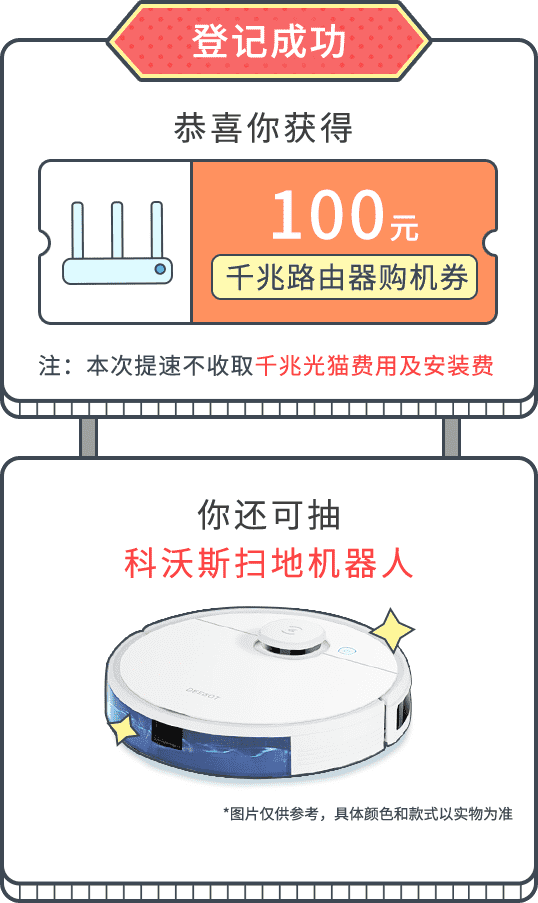
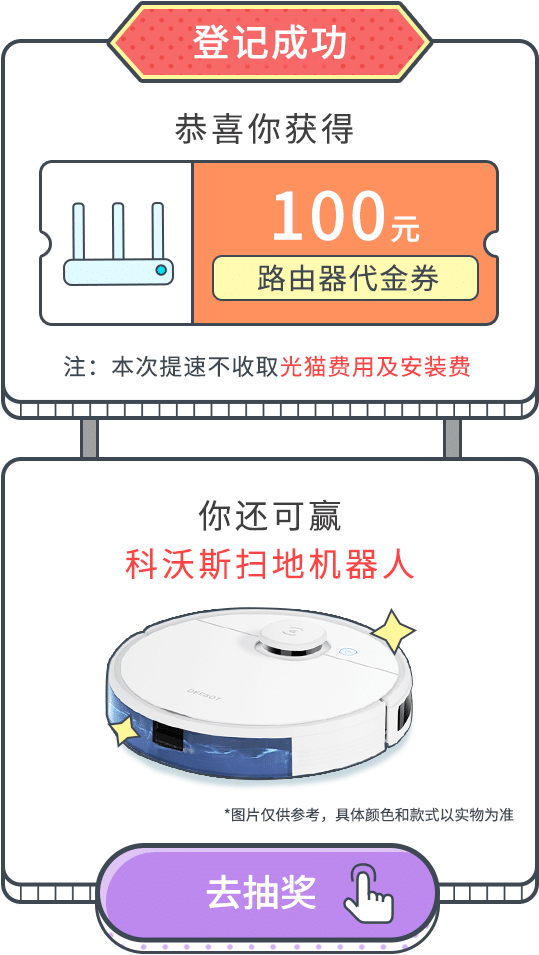
fix： bugv2.0

diff --git a/src/main.js b/src/main.js
@@ -91,8 +91,8 @@ function getUserInfo(flag = true) {
       if (res.data) {
         // 先判断是否是分享进来的
         user = res.data.data || { change: 1, prize_all_list: [], prize_list: [], help_list: [] }
-        if (user?.headimgurl) {
-          $(".head-image").css("background-image", `url(${user?.headimgurl})`)
+        if (user?.nickname) {
+          // $(".head-image").css("background-image", `url(${user?.headimgurl})`)
           $(".poster-name").text("@" + (user.nickname || "未知"))
         }
         console.log("getuser", share_openid, res.data.data);
@@ -124,10 +124,11 @@ function getUserInfo(flag = true) {
             verifyStatus = "success"
             $(".icon-phone").text("联系号码：" + user?.tel)
             $(".icon-addr").text("联系地址：" + user.address + user.address_more)
-            if(user?.tvid) {
+            if (user?.tvid) {
               $(".icon-network").text("宽带号码：" + user?.tvid)
               showEl($(".icon-network"))
-            } else if(user?.idcard) {
+            } 
+            if (user?.idcard) {
               $(".icon-idcard").text("身份证：" + user?.idcard)
               showEl($(".icon-idcard"))
             }
@@ -270,13 +271,13 @@ function login(tel, vcode) {
 // 登记信息
 function checkin(address, address_more, options) {
   console.log("checkin");
-  let url = ""
-  if(options.tvid) {
-    url = `/leave_userinfo?openid=${openid}&act_name=${act_name}&address=${address}&address_more=${address_more}&tvid=${options.tvid}`
-  } else if(options.idcard) {
-    url = `/leave_userinfo?openid=${openid}&act_name=${act_name}&address=${address}&address_more=${address_more}&idcard=${options.idcard}`
-  } else {
-    return
+  let url = `/leave_userinfo?openid=${openid}&act_name=${act_name}&address=${address}&address_more=${address_more}`
+  // 接口的校验顺序是先身份证后宽带号
+  if (options.tvid) {
+    url = url + `&tvid=${options.tvid}`
+  }
+  if (options.idcard) {
+    url = url + `&idcard=${options.idcard}`
   }
   http
     .get(url)
@@ -288,18 +289,19 @@ function checkin(address, address_more, options) {
           showEl($(".checkin-success"))
           $(".icon-phone").text("联系号码：" + user.tel)
           $(".icon-addr").text("联系地址：" + address + address_more)
-          if(options.tvid) {
+          if (options.tvid) {
             $(".icon-network").text("宽带号码：" + options.tvid)
             showEl($(".icon-network"))
-          } else if(options.idcard) {
+          } 
+          if (options.idcard) {
             $(".icon-idcard").text("身份证：" + options.idcard)
             showEl($(".icon-idcard"))
           }
           showEl($(".checkin-success-result"))
           hideEl($(".checkin-result"))
-        } else if(res.data.code == 20012) {
+        } else if (res.data.code == 20012) {
           showEl($(".checkin-network-error"))
-        } else if(res.data.code == 20011) {
+        } else if (res.data.code == 20011) {
           showEl($(".checkin-idcard-error"))
         } else {
           // 登记失败 -> 登记失败弹窗，修改登记页面显示(在userinfo接口也应判断显示)
@@ -365,10 +367,9 @@ function runPrizeItem() {
   new Swiper('.draw-prize-swiper', {
     loop: true,
     slidesPerView: 3,
-    speed: 10,
+    speed: 300,
     autoplay: {
-      // 0.1秒切换一次
-      delay: 200,
+      delay: 600,
     },
   })
 }
@@ -410,29 +411,27 @@ function drawPrize() {
   }
 }
 
-function drawToPic(scale = 2) {
+function drawToPic() {
   showEl($("#poster"))
   // box -- 需要截取的屏幕的可视区域
   const height = document.getElementById("poster").clientHeight
   const width = document.getElementById("poster").clientWidth
-  const canvas = document.createElement('canvas')
-  canvas.width = width * scale
-  canvas.height = height * scale
-  const content = canvas.getContext('2d')
-  content.scale(scale, scale)
-  const rect = document.getElementById("poster").getBoundingClientRect()
-  content.translate(-rect.left, -rect.top)
-  console.log(scale, width, height)
+  // const canvas = document.createElement('canvas')
+  // canvas.width = width
+  // canvas.height = height
+  // const content = canvas.getContext('2d')
+  // const rect = document.getElementById("poster").getBoundingClientRect()
+  // content.translate(-rect.left, -rect.top)
   setTimeout(() => {
     html2canvas(document.getElementById("poster"), {
       allowTaint: true,
       taintTest: true,
       useCORS: true,
-      scale: scale / 2,
-      canvas: canvas,
+      // canvas: canvas,÷
       width: width,
       height: height,
-      scrollY: 0
+      scrollY: 0,
+      scrollX: 0
     }).then((c) => {
       // 微信浏览器下，可长按图片保存
       const elemImg = `<img src="${c.toDataURL('image/png')}"" style='width: 100%'/>`
@@ -525,9 +524,9 @@ function getIndexSwiper() {
   new Swiper('.index-prize-swiper', {
     loop: true,
     slidesPerView: 3,
-    speed: 10,
+    speed: 300,
     autoplay: {
-      delay: 200,
+      delay: 600,
     },
   })
 }
@@ -807,13 +806,17 @@ $(function () {
         baiduHtm[2],
         baiduHtm[3],
       ]);
-      if(tvid) {
-        checkin(address, address_more, {tvid})
-      } else if(idcard) {
-        checkin(address, address_more, {idcard})
+      if (tvid || idcard) {
+        checkin(address, address_more, { tvid, idcard })
       }
     } else {
-      alert("请先填写身份证或者宽带号")
+      if (!address) {
+        alert("请先填写地址")
+      } else if (!address_more) {
+        alert("请先填写详细地址")
+      } else if (!(tvid || idcard)) {
+        alert("请先填写身份证或者宽带号")
+      }
     }
   });
 

diff --git a/src/css/main.css b/src/css/main.css
@@ -263,7 +263,7 @@
   height: .3rem;
   margin: .3rem 0;
   background-image: url("../images/p3_checkin_word1.png");
-  background-color: blueviolet;
+  /* background-color: blueviolet; */
 }
 .checkin-tvid-tip{
   width: 5.1rem;
@@ -431,10 +431,10 @@
 }
 .checkin-sussess-btn {
   position: absolute;
-  bottom: -0.2rem;
+  bottom: 0;
   width: 3.45rem;
   height: 1.1rem;
-  background-image: url("../images/popup_checkinOk_btn.png");
+  /* background-image: url("../images/popup_checkinOk_btn.png"); */
 }
 
 /* 抽奖页面 */

diff --git a/src/utils.js b/src/utils.js
@@ -15,7 +15,9 @@ export function getCookie(cname) {
 
 // 切换展示的模块
 export function toggleDisplay(selector) {
-  $("htlm,body").animate({ scrollTop: 0 }, 0);
+  $("html,body").animate({ scrollTop: 0 }, 0);
+  document.documentElement.scrollTop = 0;
+  document.body.scrollTop = 0;
   selector
     .removeClass("hide")
     .addClass("show")
